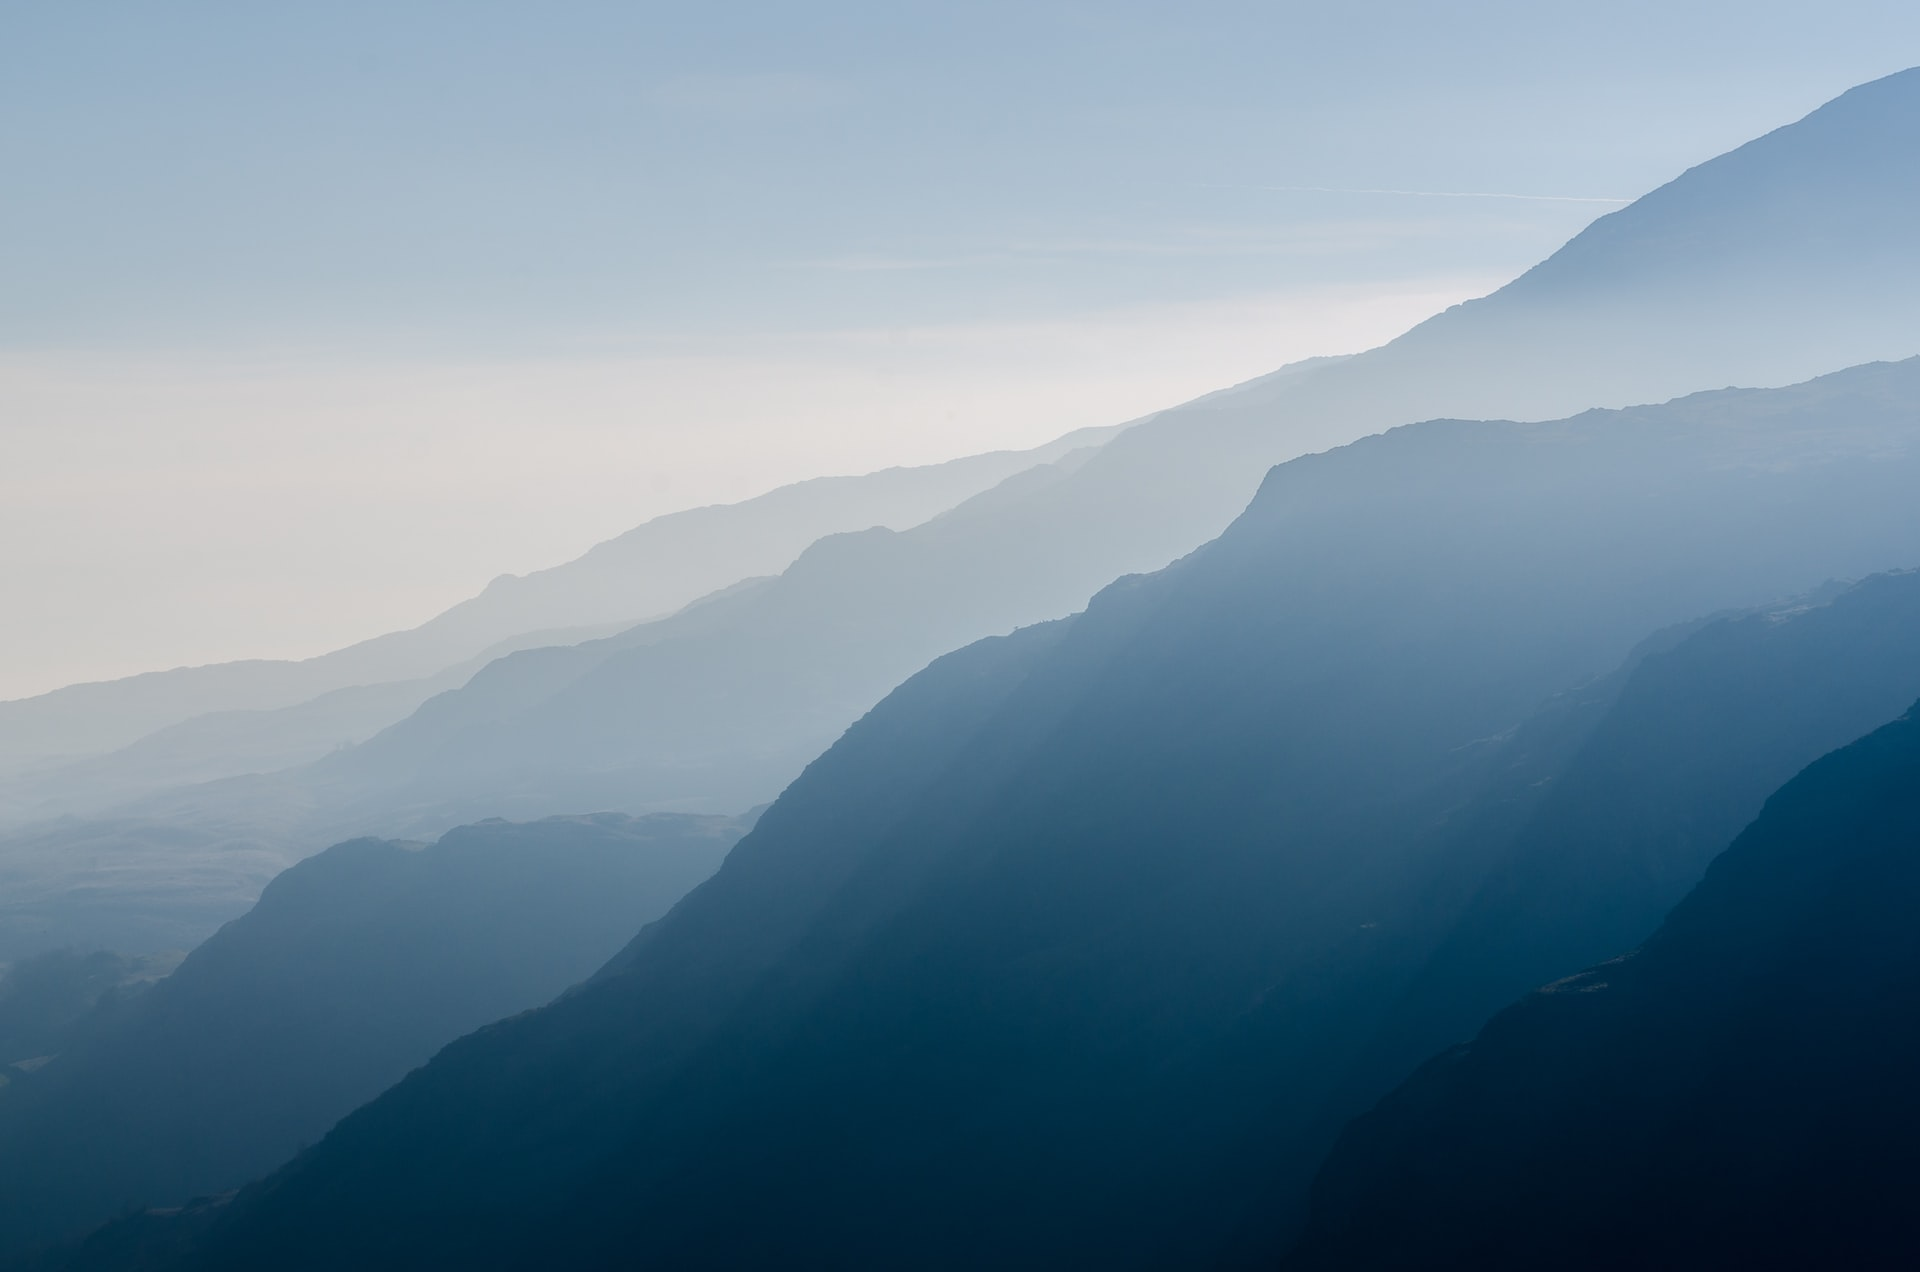
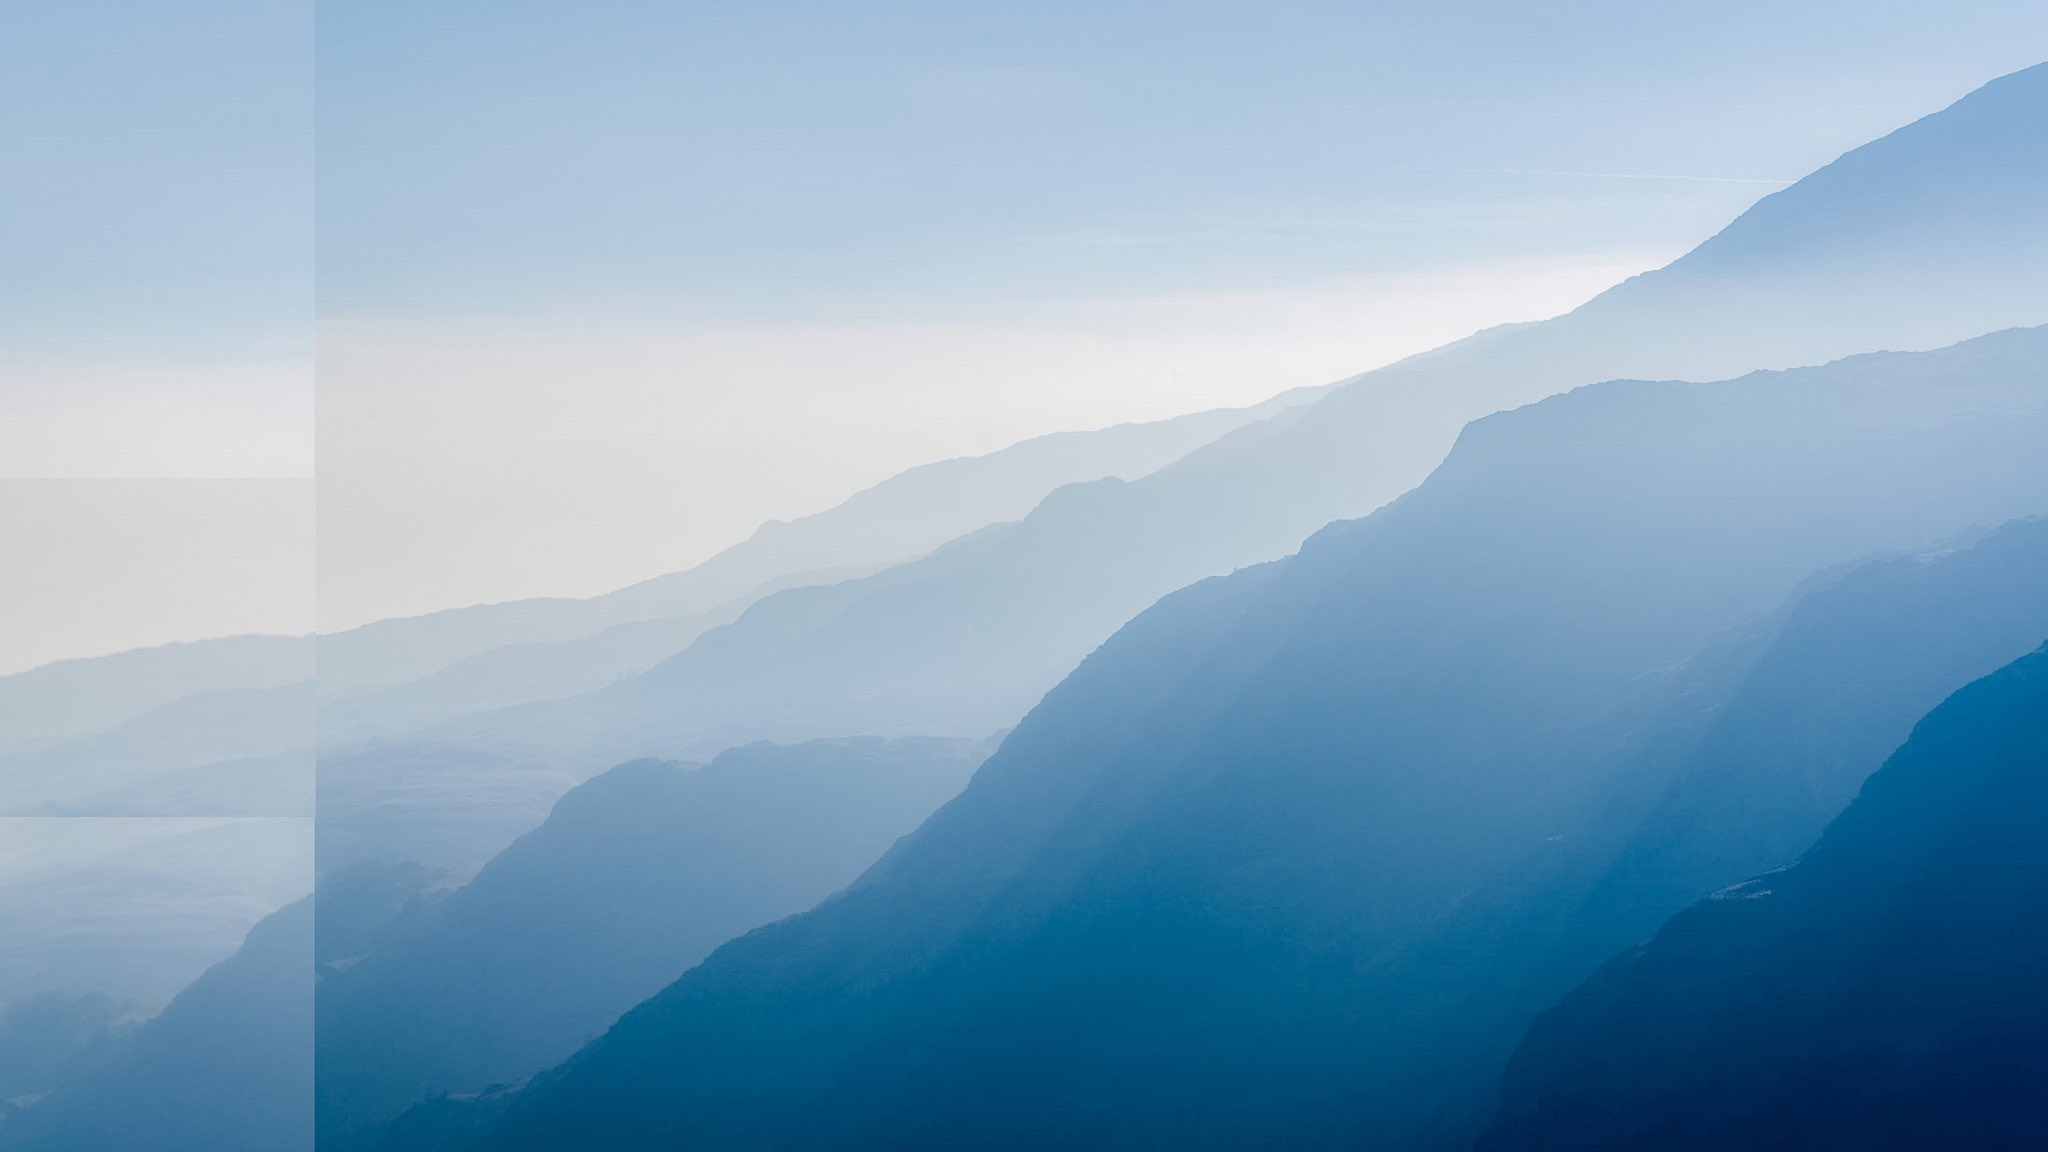
Update the folder and style

diff --git a/Week3-CSS/source_code/company.html b/Week3-CSS/source_code/company.html
@@ -84,15 +84,15 @@
         <td> <a href="Toilet_light.html"> 16-Color Toilet Night Light </a>
         </td>
         <td> $13.78 </td>
-        <td>
+        <td  >
           <img src="./images/2.jpg" alt=" TLight" width="100" height="100" />
         </td>
       </tr>
       <!-- Item 3: Hat with Light -->
       <tr>
-        <td> <a href="hat_light.html"> Beanie Hat with Light </a> </td>
-        <td> $25 </td>
-        <td>
+        <td  > <a href="hat_light.html"> Beanie Hat with Light </a> </td>
+        <td  > $25 </td>
+        <td  >
           <img src="./images/3.png" alt="Hat" width="100" height="100" />
         </td>
       </tr>
@@ -103,36 +103,36 @@
     <table class="table_content_global_rule">
       <caption> Tools for men </caption>
       <tr>
-        <th> Product preview </th>
-        <th> Name of the product </th>
-        <th> Price of the product </th>
+        <th > Name of product </th>
+        <th  > Price and discount </th>
+        <th  > Product preview </th>
       </tr>
       <!-- Item 1: Camping Gear -->
       <tr>
-        <td rowspan="2">
+        <td  rowspan="2">
           <a href="camping_gear.html"> 12 in 1 Camping Gear </a>
         </td>
         <td> Original: $22.99 </td>
-        <td rowspan="2">
+        <td  rowspan="2">
           <img src="./images/4.png" alt="tool" width="100" height="100" />
         </td>
       </tr>
       <tr>
-        <td> After Discount: $11.33 </td>
+        <td > After Discount: $11.33 </td>
       </tr>
       <!-- Item 2: Flashlight Glove -->
       <tr>
-        <td> <a href="flashlight_glove.html"> LED Flashlight Glove </a> </td>
-        <td> $17.99 </td>
-        <td>
+        <td > <a href="flashlight_glove.html"> LED Flashlight Glove </a> </td>
+        <td > $17.99 </td>
+        <td >
           <img src="./images/5.png" alt="gloves" width="100" height="100" />
         </td>
       </tr>
       <!-- Item 3: Tool kit -->
       <tr>
-        <td> <a href="toolkit.html"> 217-Piece Tool Kit </a> </td>
-        <td> $69.99 </td>
-        <td>
+        <td > <a href="toolkit.html"> 217-Piece Tool Kit </a> </td>
+        <td > $69.99 </td>
+        <td >
           <img src="./images/6.png" alt="toolbox" width="100" height="150" />
         </td>
       </tr>
@@ -141,39 +141,39 @@
     <hr />
     <!-- Table 3: Dad Gifts -->
     <table class="table_content_global_rule">
-      <caption> Gifts for Dad </caption>
+      <caption  > Gifts for Dad </caption>
       <tr>
-        <th> Name of the product </th>
-        <th> Price of the product </th>
-        <th> Product preview </th>
+        <th > Name of product </th>
+        <th  > Price and discount </th>
+        <th  > Product preview </th>
       </tr>
       <!-- Item 1: Scotch Glass -->
       <tr>
-        <td>
+        <td >
           <a href="Whiskey_glass.html">
           Whiskey Scotch Glass
           </a>
         </td>
-        <td> $13.99 </td>
-        <td>
+        <td > $13.99 </td>
+        <td >
           <img src="./images/7.png" alt="glass" width="100" height="100" />
         </td>
       </tr>
       <!-- Item 2: Wristband -->
       <tr>
-        <td> <a href="tool_band.html"> Magnetic Wrist Tool Belts </a></td>
-        <td> $13.99 </td>
-        <td>
+        <td > <a href="tool_band.html"> Magnetic Wrist Tool Belts </a></td>
+        <td > $13.99 </td>
+        <td >
           <img src="./images/8.png" alt="bands" width="100" height="100" />
         </td>
       </tr>
       <!-- Item 3: Papa shirt -->
       <tr>
-        <td rowspan="2">
+        <td  rowspan="2">
           <a href="shirt.html"> Papa Shirt with kids Names </a>
         </td>
-        <td> Original: $20.59 </td>
-        <td rowspan="2">
+        <td > Original: $20.59 </td>
+        <td  rowspan="2">
           <img src="./images/9.png" alt="cloth" width="100" height="100" />
         </td>
       </tr>

diff --git a/Week3-CSS/source_code/style/125.css b/Week3-CSS/source_code/style/125.css
@@ -3,7 +3,7 @@
   font-family:'Times New Roman', Times, serif;
   background-image: url(./images/background.jpg);
   background-repeat: no-repeat;
-  background-position:  right top;
+  background-position:  right;
   background-size: 100% 100%;
   background-color:steelblue;
 }
@@ -15,6 +15,7 @@
   font-weight:bold;
   text-align:center;
 }
+
 .welcome_prompt
 {
   font-size: 16px;
@@ -36,5 +37,20 @@
 .table_content_global_rule
 {
   text-align: center;
+  border-collapse: collapse;
 }
 
+tr,td
+{
+  border: 2px solid black;
+}
+
+tr:nth-child(odd)
+{
+  background-color: whitesmoke;
+}
+
+tr:nth-child(even)
+{
+  background-color: gainsboro;
+}
